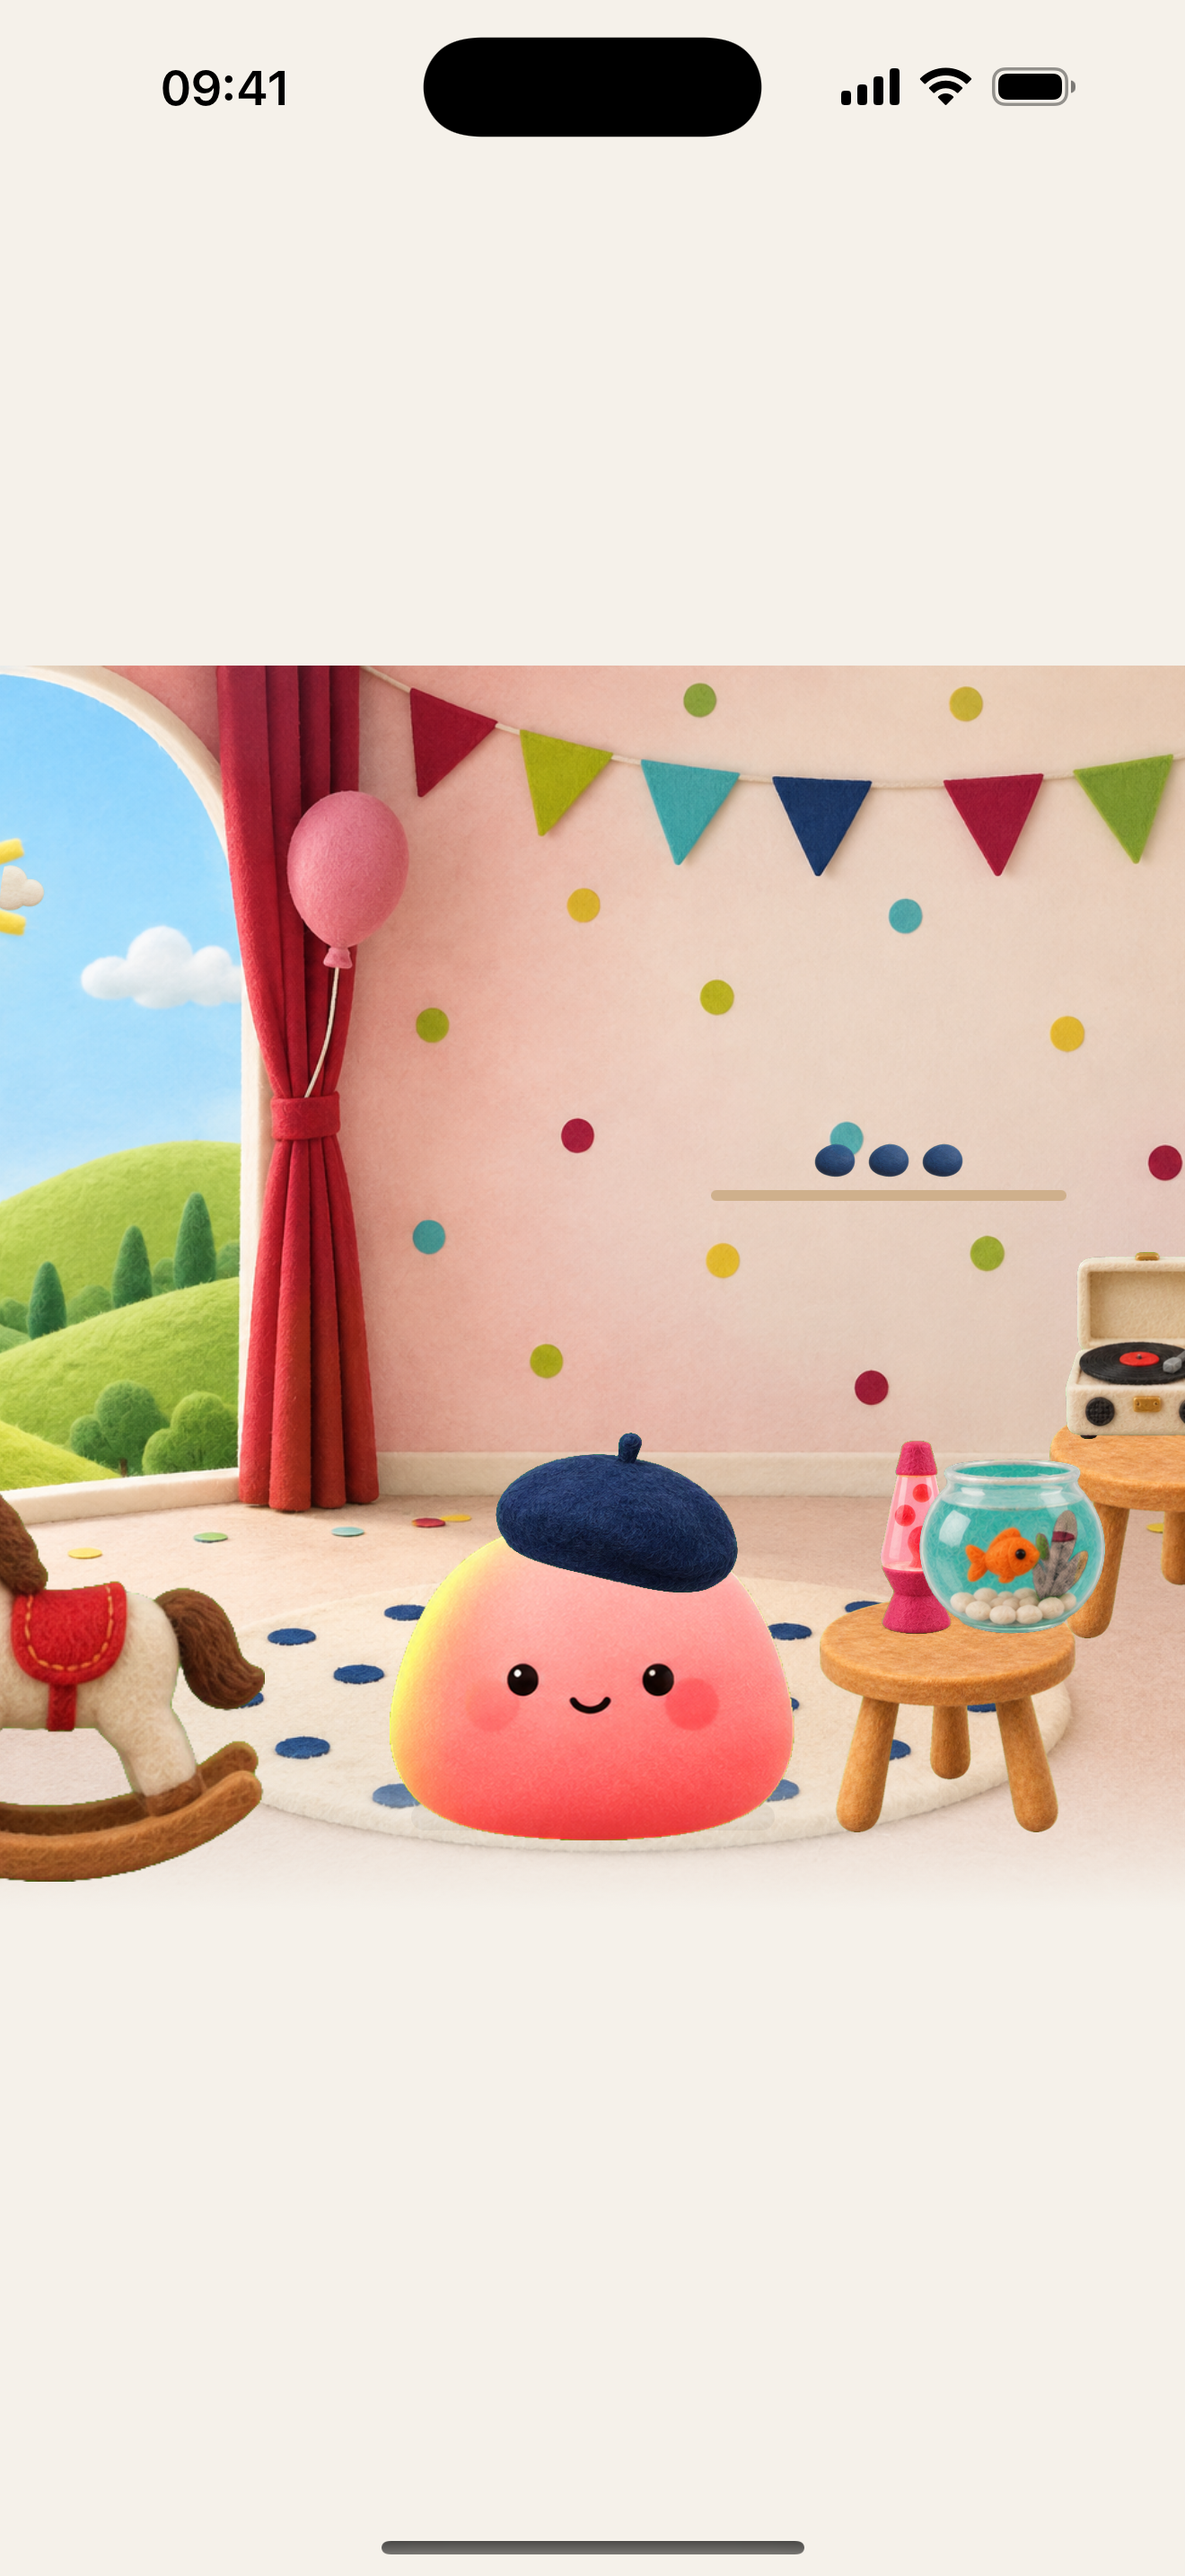
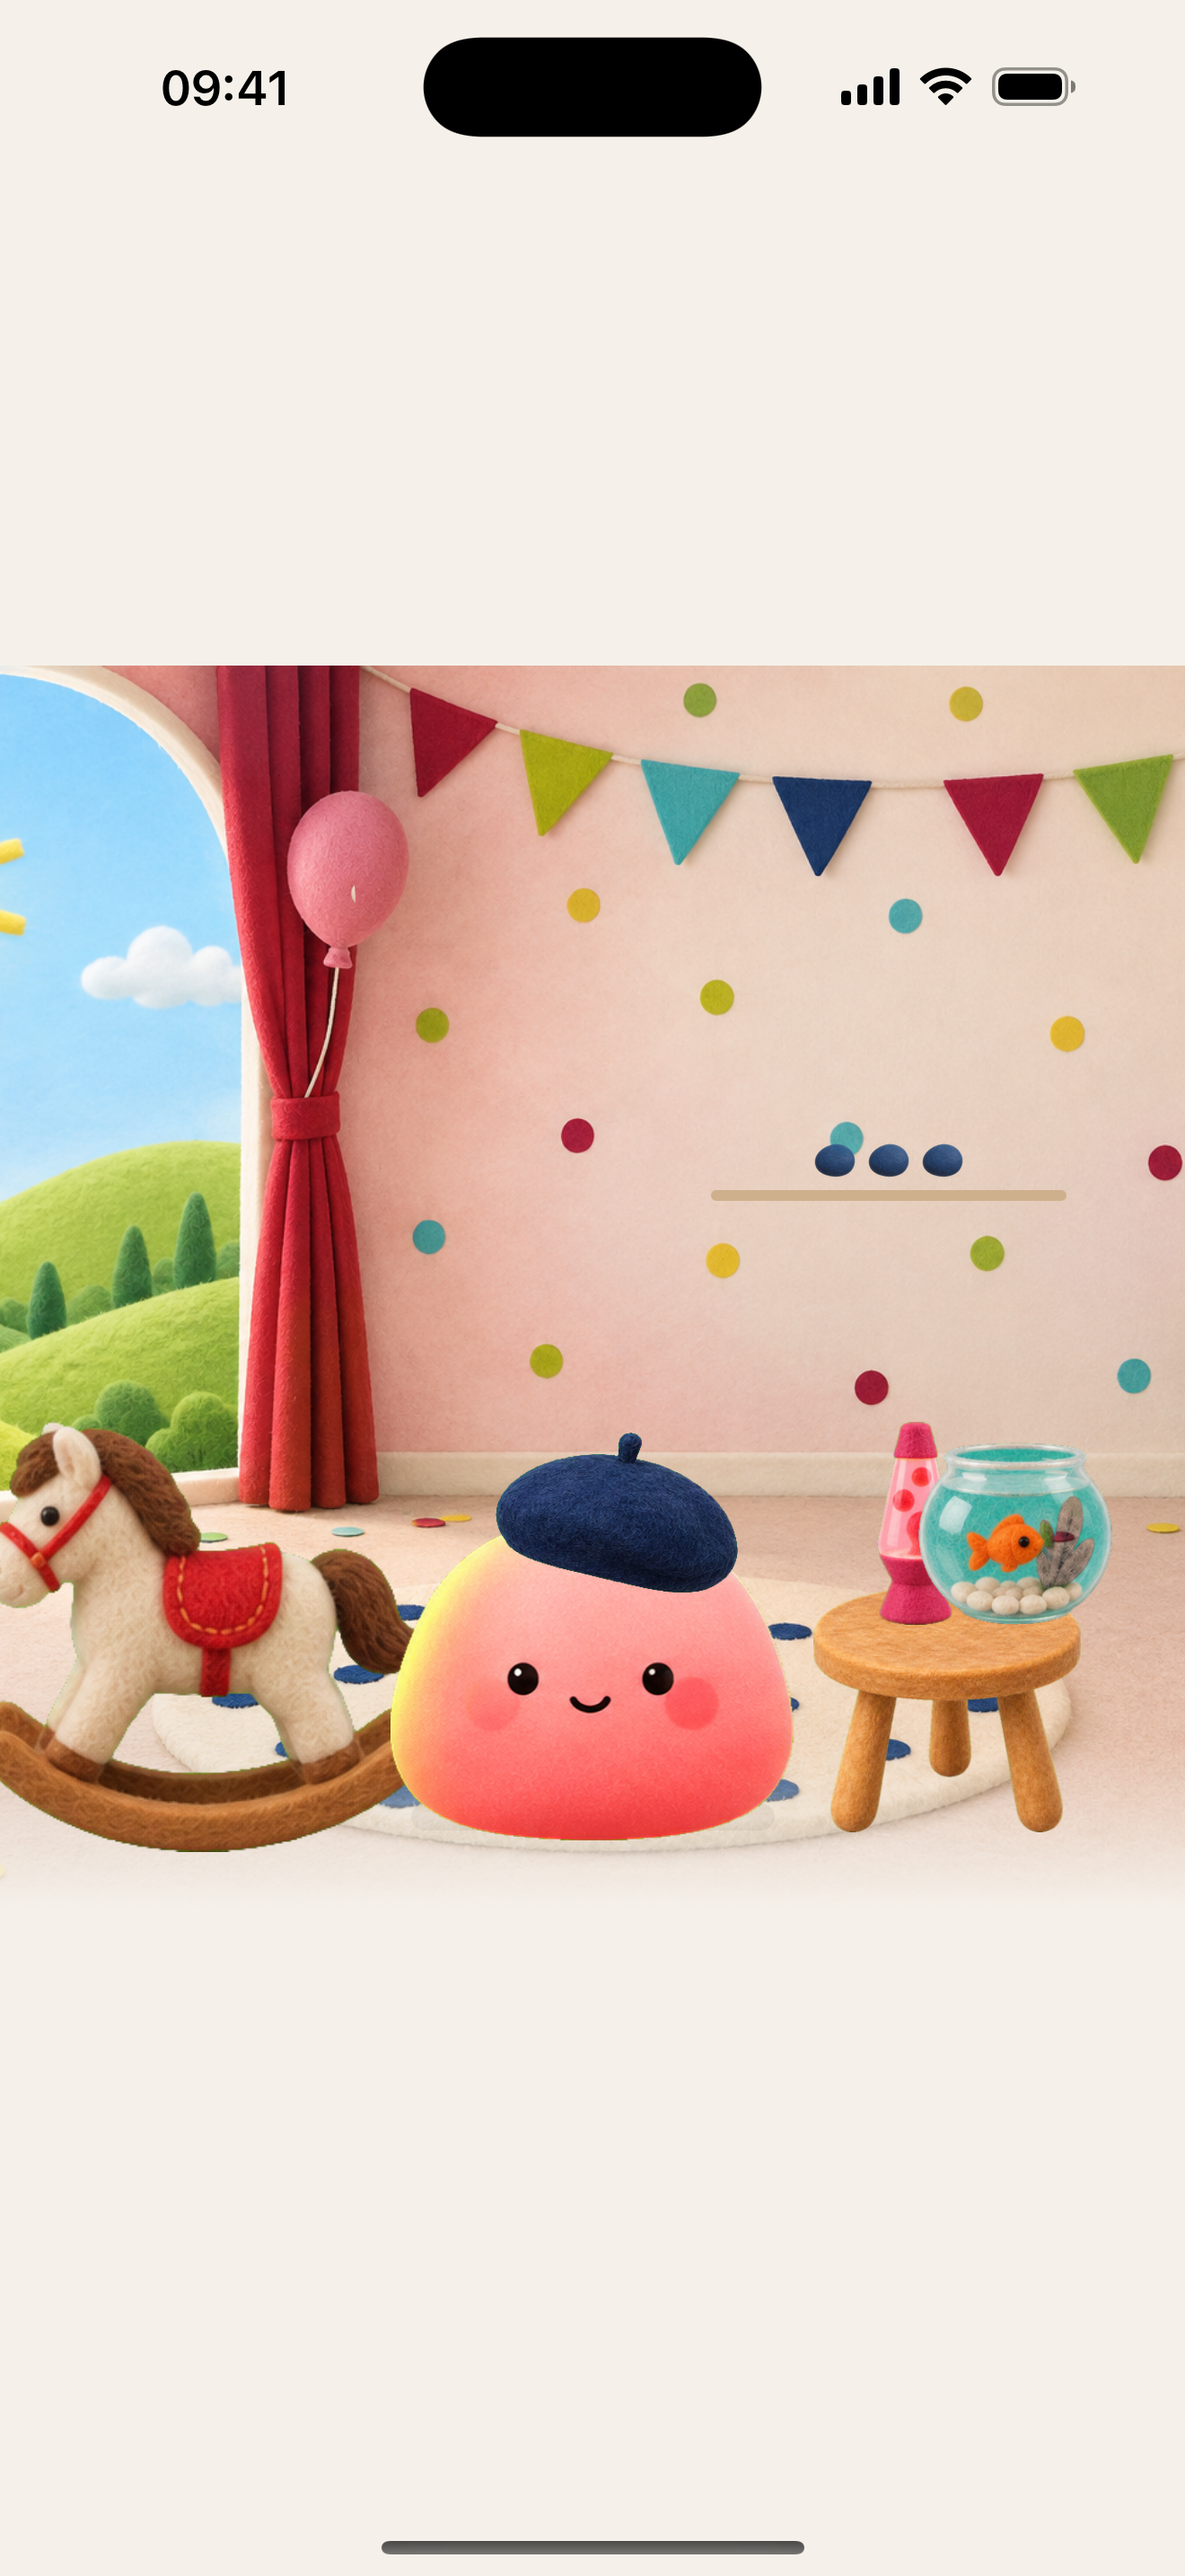
App Store écran 1 : objets dans le cadre, Mindpair en sticker sur le mur

Changed region(s): [[0.0, 0.5275, 0.3417, 0.7448], [0.6833, 0.4655, 1.0, 0.7137], [0.0, 0.3414, 0.0311, 0.3724]]

diff --git a/app/scene-capture.js b/app/scene-capture.js
@@ -10,7 +10,7 @@ export default function SceneCapture() {
   const { width: W } = useWindowDimensions();
   return (
     <View style={{ flex: 1, backgroundColor: T.bg, justifyContent: 'center' }}>
-      <Scene T={T} stage="mochi" mood="happy" lvl={2} height={W * 1.05} items={['cheval', 'aquarium', 'tournedisque', 'lave']} outfit="beret" souvenirs={3} />
+      <Scene T={T} stage="mochi" mood="happy" lvl={2} height={W * 1.05} items={['cheval', 'aquarium', 'lave']} outfit="beret" souvenirs={3} positions={{ cheval: { x: 0.17, y: 0.78 } }} />
     </View>
   );
 }

diff --git a/scripts/store-ecran1.py b/scripts/store-ecran1.py
@@ -16,22 +16,32 @@ def shadow(im,box,r,a=90,blur=40,dy=22):
 im=Image.new('RGBA',(W,H),CREAM+(255,))
 # la pièce, agrandie de 18 % et recadrée au centre (Mochi au milieu), fondue en haut et en bas dans le crème
 room=Image.open(B+'scene.png').convert('RGBA').crop((0,741,1320,2067))
-k=1.10; room=room.resize((int(room.width*k),int(room.height*k)),Image.LANCZOS)
+k=1.0; room=room.resize((int(room.width*k),int(room.height*k)),Image.LANCZOS)
 x0=(room.width-W)//2; room=room.crop((x0,0,x0+W,room.height))
 mask=Image.new('L',room.size,255); md=ImageDraw.Draw(mask)
 for i in range(160): md.line((0,i,W,i),fill=int(255*i/160))
 for i in range(120): md.line((0,room.height-1-i,W,room.height-1-i),fill=int(255*i/120))
-RY=690; im.paste(room,(0,RY),mask)
+RY=700; im.paste(room,(0,RY),mask)
 d=ImageDraw.Draw(im)
 def center(y,t,f,fill):
     w=d.textlength(t,font=f); d.text(((W-w)/2,y),t,font=f,fill=fill)
-center(210,'Mindpair',font(52,'Bold'),INK+(150,))
 center(330,'Partagez la charge mentale,',font(96,'Bold'),INK)
 center(450,'en vous amusant.',font(96,'Bold'),INK)
+# « Mindpair » en sticker collé sur le mur de la pièce (Jeanne, 10 nov 2026 : « plus en avant, en mode stickers »)
+def sticker(txt,size,fill,angle):
+    f=font(size,'Heavy'); d0=ImageDraw.Draw(Image.new('RGB',(1,1))); w=int(d0.textlength(txt,font=f)); h=int(size*1.25)
+    sw=int(size*0.13); pad=sw+30
+    t=Image.new('RGBA',(w+2*pad,h+2*pad),(0,0,0,0)); dt=ImageDraw.Draw(t)
+    dt.text((pad,pad),txt,font=f,fill=fill,stroke_width=sw,stroke_fill=(255,255,255,255))
+    t=t.rotate(angle,expand=True,resample=Image.BICUBIC)
+    sh=Image.new('RGBA',t.size,(0,0,0,0)); sh.paste((50,30,30,110),(0,0),t.split()[3]); sh=sh.filter(ImageFilter.GaussianBlur(14))
+    out=Image.new('RGBA',(t.width+20,t.height+30),(0,0,0,0)); out.alpha_composite(sh,(10,24)); out.alpha_composite(t,(0,0)); return out
+st=sticker('Mindpair',210,INK+(255,),6)
+im.alpha_composite(st,((W-st.width)//2+70,RY+380))
 # la carte « Équilibré » (capture réelle de « Mochi a réparti »), en grand, à cheval sur le bas de la pièce
 c=Image.open(B+'dispatch.png').convert('RGBA').crop((60,872,1260,1144)); pad=34
 card=Image.new('RGBA',(c.width+2*pad,c.height+2*pad),(250,247,242,255)); card.paste(c,(pad,pad),c)
-cx=(W-card.width)//2; cy=RY+room.height+10
+cx=(W-card.width)//2; cy=RY+room.height+30
 im=shadow(im,(cx,cy,cx+card.width,cy+card.height),48)
 im.paste(card,(cx,cy),rounded(card,48))
 d=ImageDraw.Draw(im)
